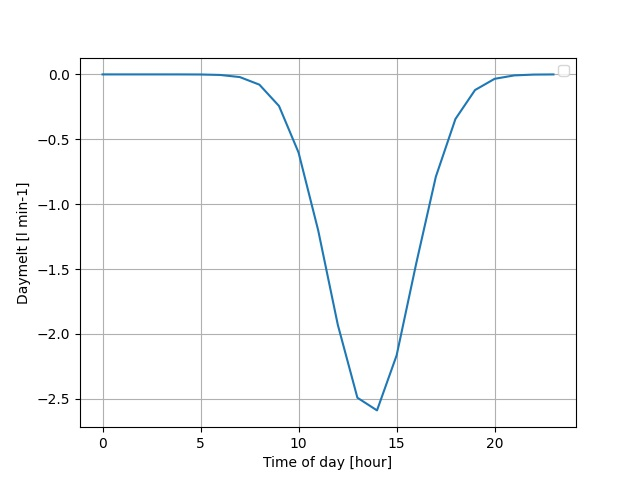
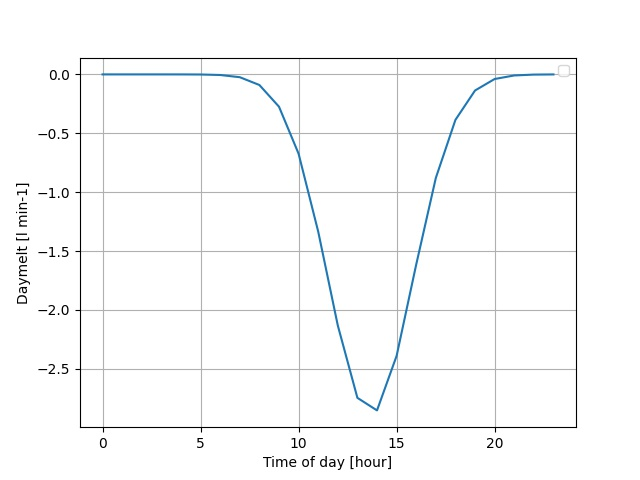
Update funcs

diff --git a/src/solar_gauss.py b/src/solar_gauss.py
@@ -11,10 +11,8 @@ import json
 
 L_F = 334 * 1000  # J/kg Fusion
 
-
 def datetime_to_int(dt):
     return int(dt.strftime("%H"))
-
 
 if __name__ == "__main__":
     sites = ["gangles21", "guttannen21"]
@@ -24,7 +22,7 @@ if __name__ == "__main__":
             params = json.load(f)
 
         times = pd.date_range(
-            "2019-02-01",
+            params["solar_day"],
             freq="H",
             periods=1 * 24,
         )
@@ -56,18 +54,18 @@ if __name__ == "__main__":
         for i in range(0, df.shape[0]):
             df.loc[i, "f_cone"] = (
                 math.pi * math.pow(params["r"], 2) * 0.5 * math.sin(df.loc[i, "sea"])
+                + 0.5 * math.pow(params["r"], 2) * math.cos(df.loc[i, "sea"])
             ) / A
+
             df.loc[i, "SW_direct"] = (
                 (1 - params["cld"])
                 * df.loc[i, "f_cone"]
-                * (1 - params["a_i"])
                 * df.loc[i, "ghi"]
             )
             df.loc[i, "SW_diffuse"] = (
-                params["cld"] * (1 - params["a_i"]) * df.loc[i, "ghi"]
+                params["cld"]  * df.loc[i, "ghi"]
             )
-        df["dis"] = -1 * (df["SW_direct"] + df["SW_diffuse"]) * A / L_F * 1000 / 60
-        print(df.head())
+        df["dis"] = -1 * (1 - params["a_i"]) * (df["SW_direct"] + df["SW_diffuse"]) * A / L_F * 1000 / 60
 
         x = df.hour
         y = df.dis
@@ -89,5 +87,7 @@ if __name__ == "__main__":
         print(f"parameter names: {model.param_names}")
         print(f"independent variables: {model.independent_vars}")
         param_values = dict(result.best_values)
+        print(param_values)
+
         with open("data/" + site + "/daymelt.json", "w") as f:
             json.dump(param_values, f)

diff --git a/src/autoDischarge.py b/src/autoDischarge.py
@@ -22,17 +22,12 @@ G = 9.81  # Gravitational acceleration
 
 """Surface Properties"""
 IE = 0.97  # Ice Emissivity IE
-A_I = 0.25  # Albedo of Ice A_I
-A_S = 0.85  # Albedo of Fresh Snow A_S
-A_DECAY = 16  # Albedo decay rate decay_t_d
 Z = 0.003  # Ice Momentum and Scalar roughness length
-T_PPT = 1  # Temperature condition for liquid precipitation
 DX = 20e-03  # m Surface layer thickness growth rate
 H_AWS = 2
 
-"""Misc parameters"""
+"""Assumptions"""
 temp_i = 0
-# dis_min = 0.5
 
 
 def Automate(aws, site="guttannen21"):
@@ -47,7 +42,6 @@ def Automate(aws, site="guttannen21"):
 
     # Derived
     press = atmosphere.alt2pres(params["alt"]) / 100
-
     A = math.pi * params["sa_corr"] * params["r"] ** 2
 
     vp_a = (
@@ -95,9 +89,6 @@ def Automate(aws, site="guttannen21"):
     freezing_energy = Ql + Qs + LW
     freezing_energy += temp_i * RHO_I * DX * C_I / DT
     dis = -1 * freezing_energy * A / L_F * 1000 / 60
-
-    # if dis < dis_min:
-    #     dis = 0
 
     return round(dis, 1)
 

diff --git a/src/compile_coeffs.py b/src/compile_coeffs.py
@@ -18,7 +18,6 @@ def line(x, a, b, c, d):
     x3 = x[:, 2]
     return a * x1 + b * x2 + c * x3 + d
 
-
 def autoDis(a, b, c, d, amplitude, center, sigma, temp, time, rh, v):
     model = GaussianModel()
     params = {"amplitude": amplitude, "center": center, "sigma": sigma}
@@ -46,7 +45,6 @@ if __name__ == "__main__":
                 ),
                 dims=["temp", "rh", "v"],
                 coords=dict(
-                    # times=times,
                     temp=temp,
                     rh=rh,
                     v=v,
